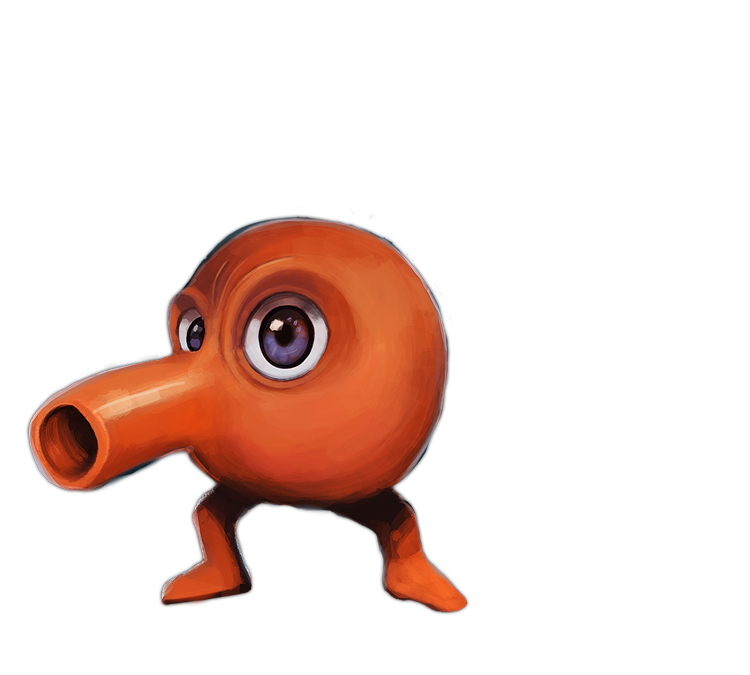
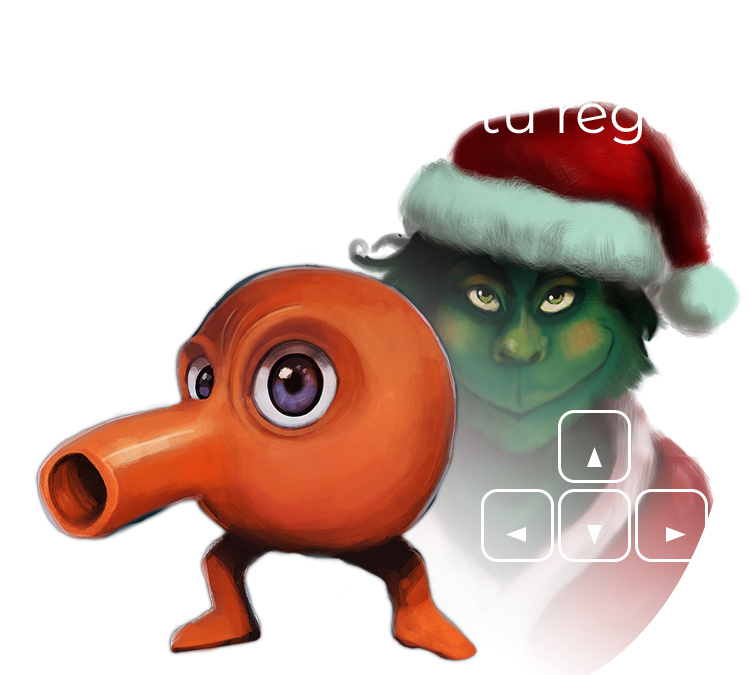
Instrucciones añadidas

diff --git a/index.html b/index.html
@@ -261,8 +261,14 @@
 <div id="ooo-game" class="">
   <div class="ooo-qbert">
     <img src="images/qkeko.png" alt="">
-
     <div class="ooo-buttons"><a id="start-game" href="#" class="ooo-btn ooo-btn-tree">Play</a></div>
+    <div class="ooo-instructions">
+      <ul>
+        <li>Usa las flechas o Q,W,A,S para moverte.</li>
+        <li>Cambia de color todos los cubos para pasar de nivel.</li>
+        <li>Recupera una vida extra cada 500 puntos.</li>
+      </ul>
+    </div>
   </div>
 </div>
 

diff --git a/css/xmas-2023.css b/css/xmas-2023.css
@@ -1263,6 +1263,13 @@ img {
   text-align: center;
   font-size: 20px;
 }
+#ooo-game .ooo-qbert .ooo-instructions {
+  display: flex;
+  justify-content: center;
+}
+#ooo-game .ooo-qbert .ooo-instructions ul {
+  font-size: 13px;
+}
 @media (min-height: 660px) {
   #ooo-game .ooo-qbert {
     width: 220px;
@@ -1311,7 +1318,6 @@ img {
     transform: rotate(180deg) translate(0px, 0px);
   }
 }
-
 /* press-start-2p-regular - latin */
 @font-face {
   font-family: "Press Start 2P";

diff --git a/scss/xmas-2023.scss b/scss/xmas-2023.scss
@@ -678,6 +678,13 @@ img{
             text-align: center;
             font-size: 20px;
         }
+        .ooo-instructions{
+            display: flex;
+            justify-content: center;
+            ul{
+                font-size: 13px;
+            }
+        }
         @media (min-height: 660px) {
             width: 220px;
             margin-top: 140px;
